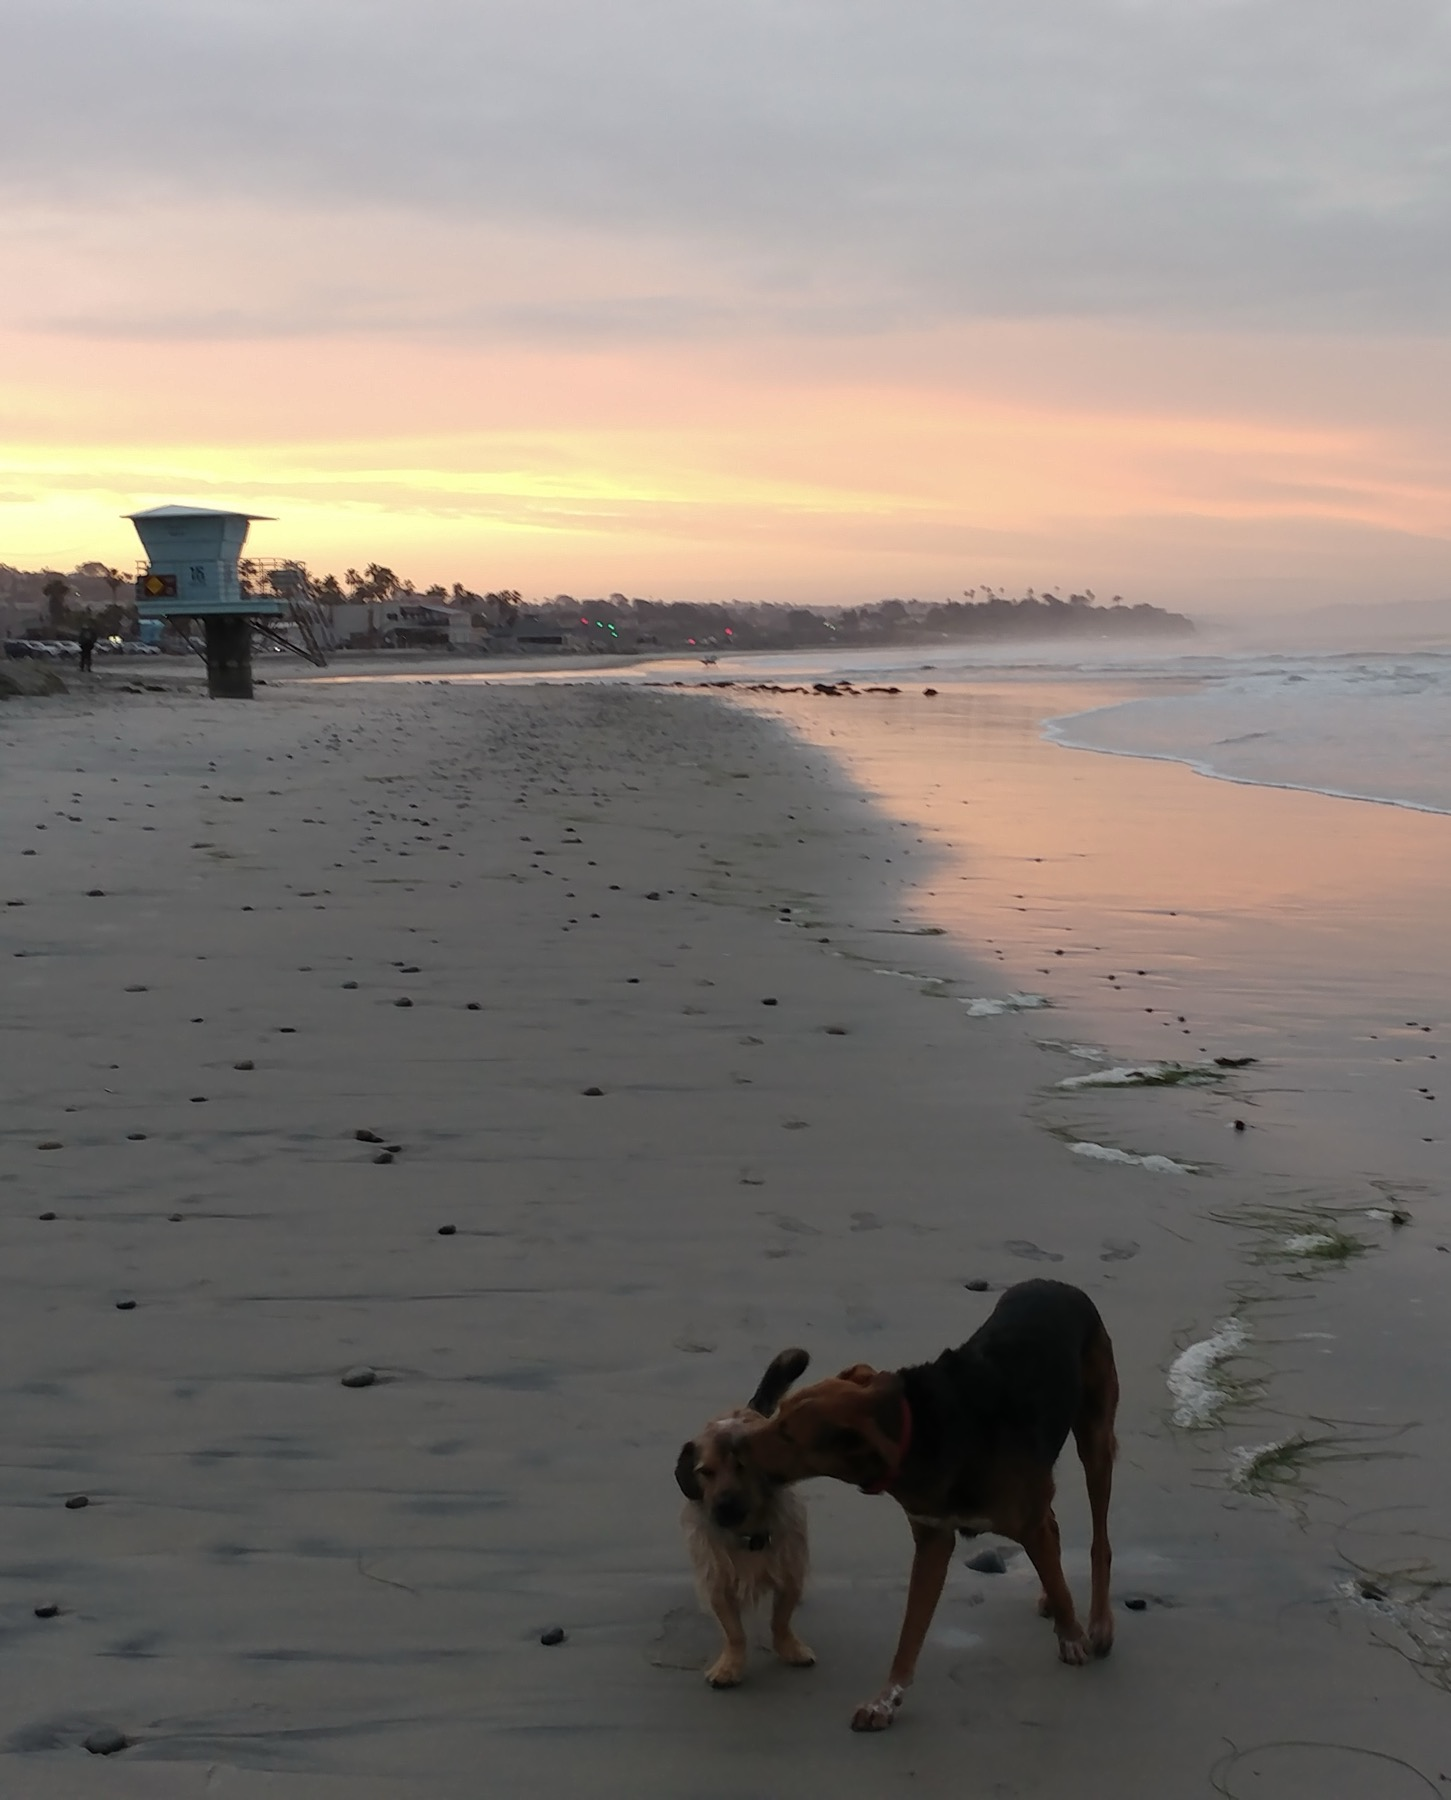
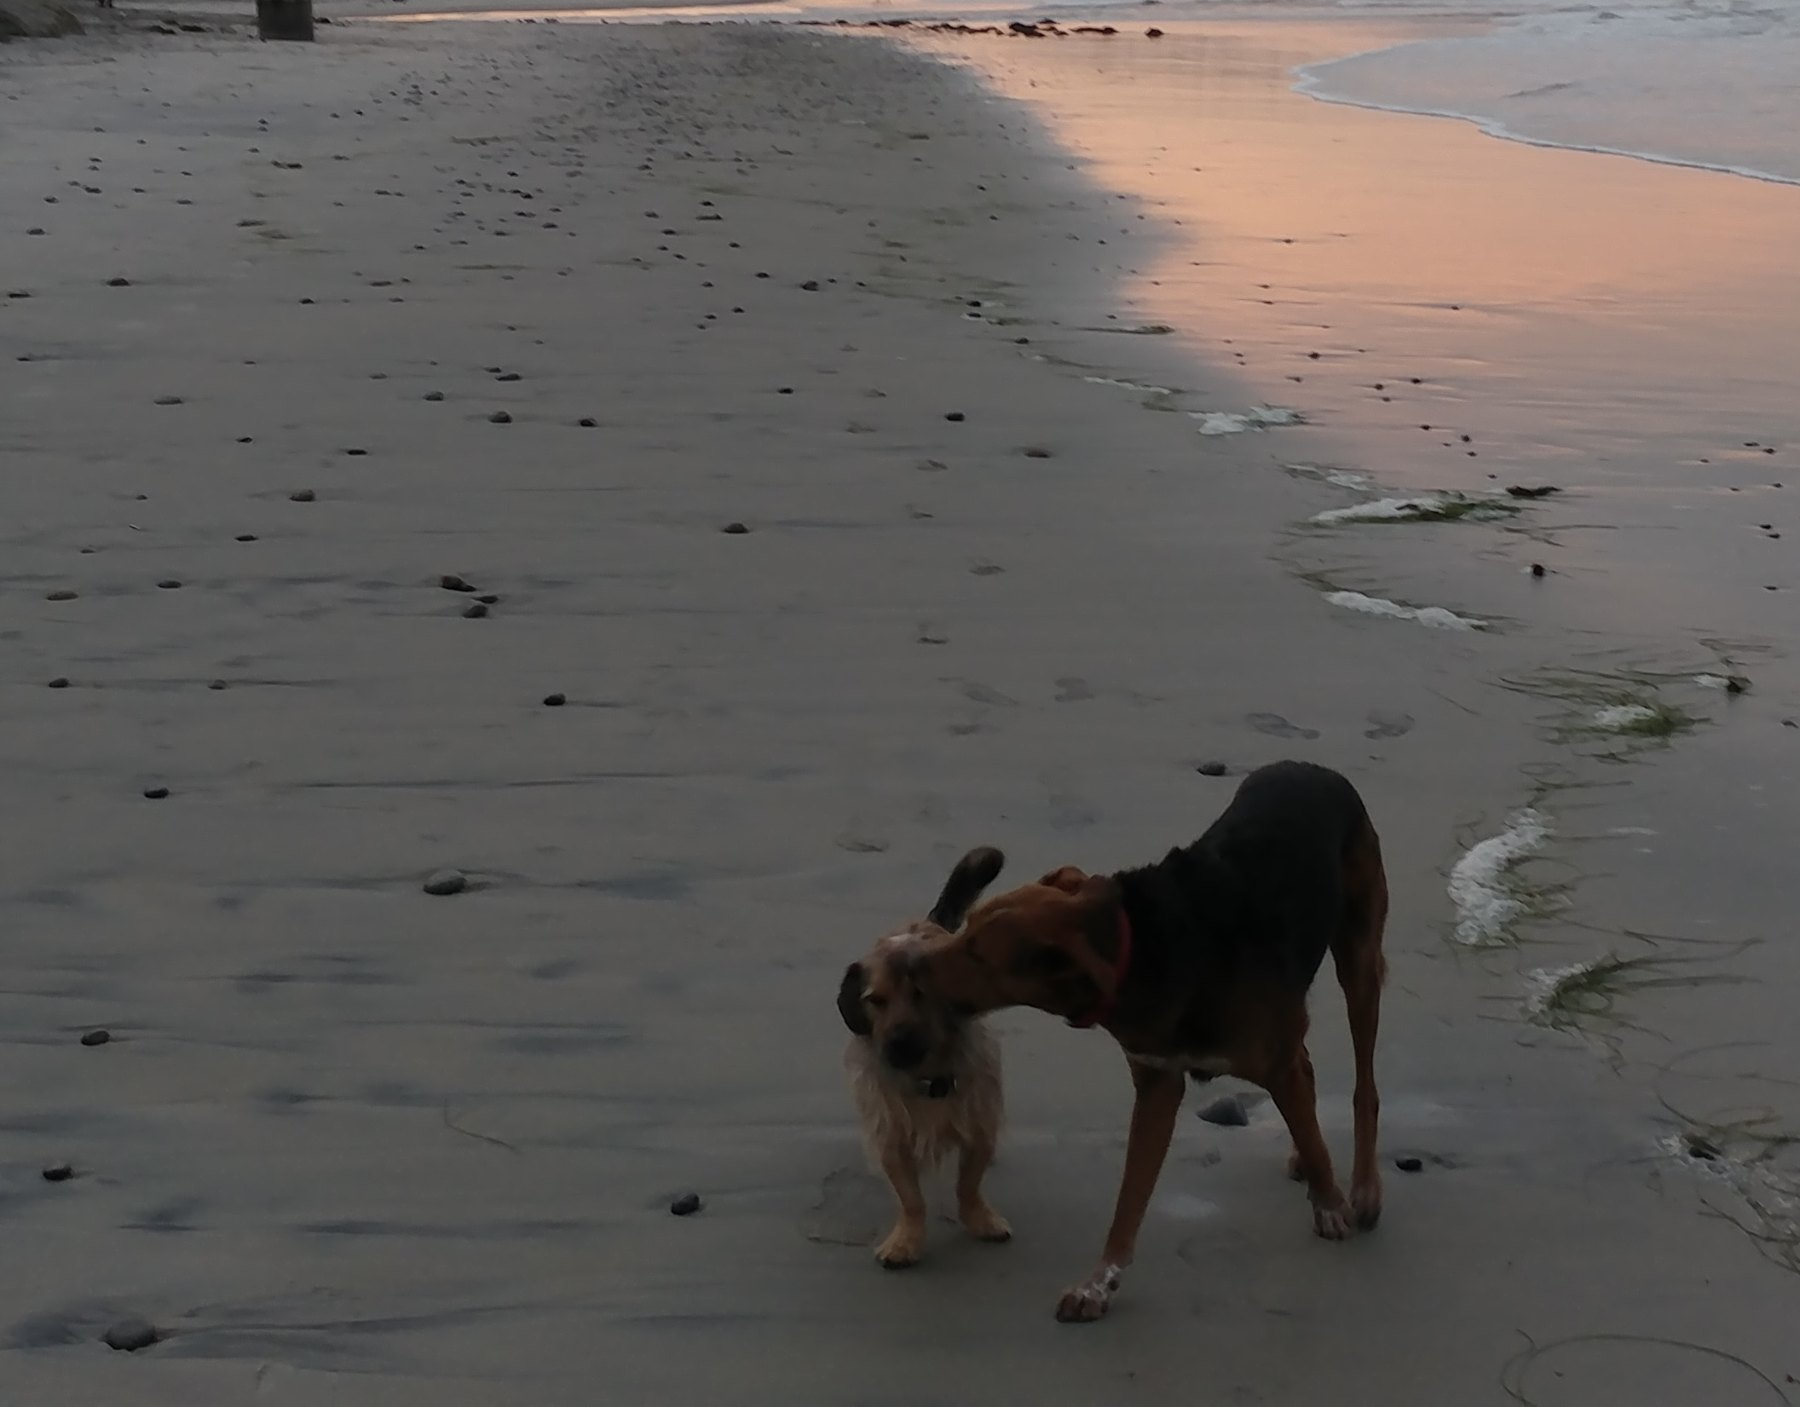
Reframe hero so Mojo is featured in the photo

diff --git a/styles.css b/styles.css
@@ -140,7 +140,7 @@ body {
 .hero__bg {
   position: absolute;
   inset: 0;
-  background: url("assets/hero.jpg") center 35% / cover no-repeat;
+  background: url("assets/hero.jpg") center 72% / cover no-repeat;
   transform: scale(1.08);
   will-change: transform;
   z-index: -2;